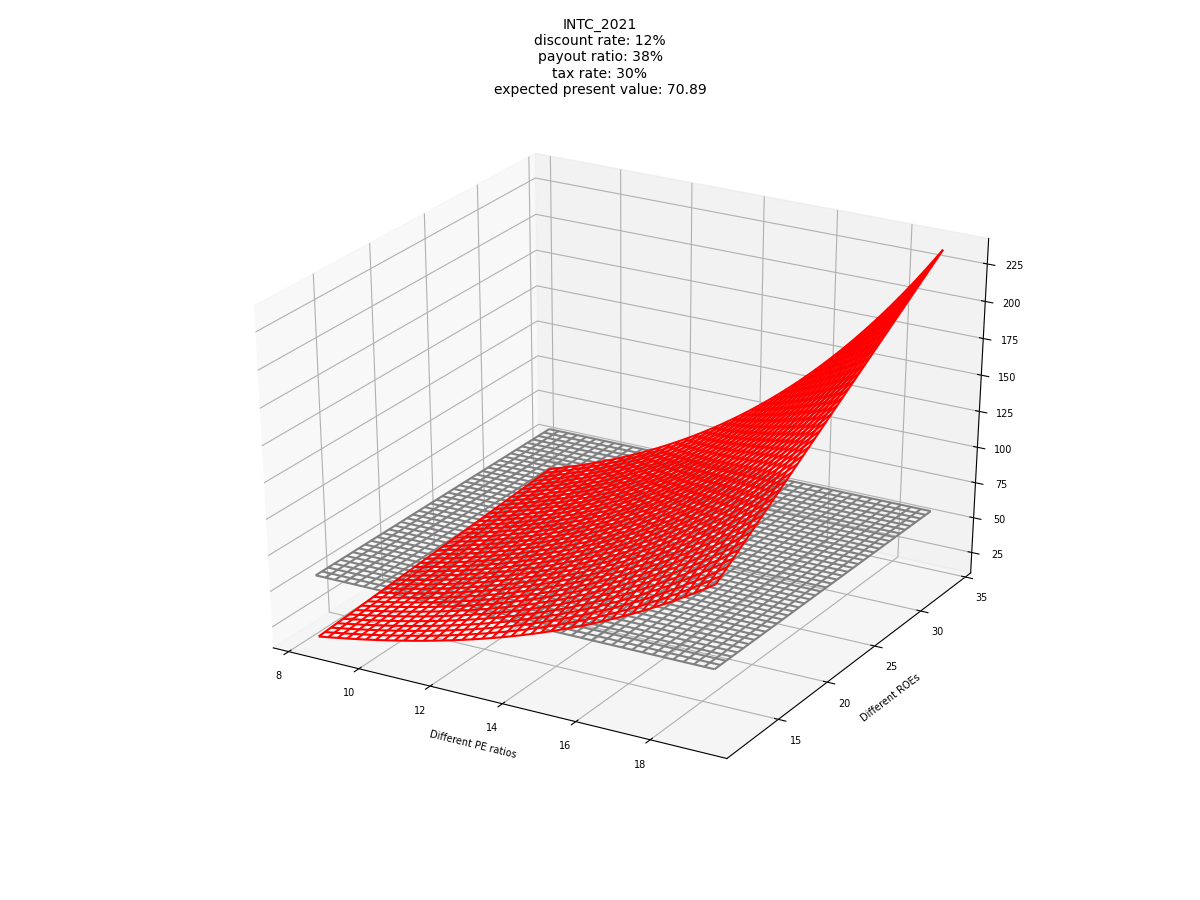
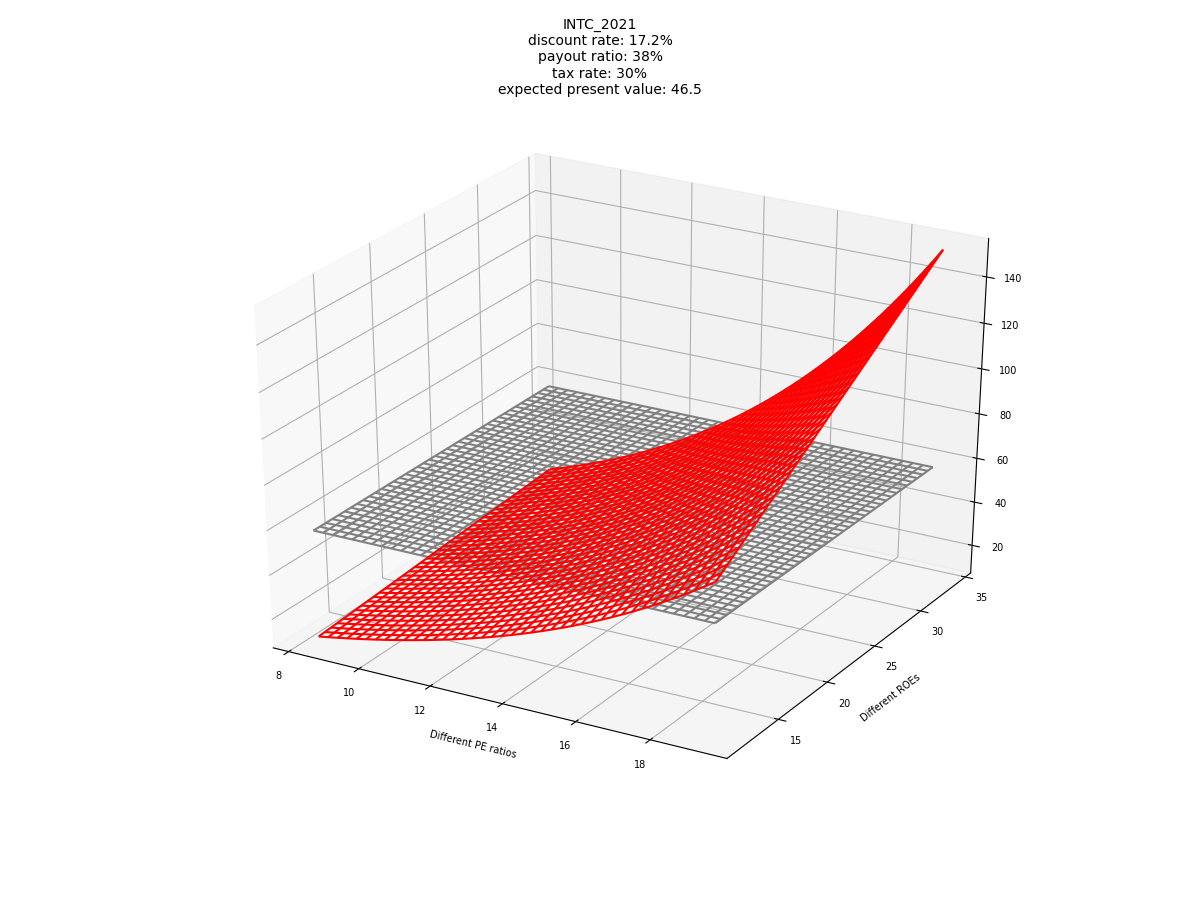
did analysis for intel

diff --git a/math_tools.py b/math_tools.py
@@ -112,7 +112,17 @@ def generate_2axis_norm_dist(xmean, xstd, ymean, ystd, resolution=20, width_of_b
     zvals = np.dot(zvals1,zvals2)
     return [xvals, yvals, zvals]
    
-
+def generate_discount_rate(risk_free_rate=0.01, num_years=10, success_rate = 0.33):
+    # generates a discount rate based on risk free rate, failure likelihood
+    # prob_success x [1 + r]^n >= [1 + rfr]^n
+    # [1 + r] >= [1 + rfr] / [prob_success ^ (1/n)]
+    # r >= [1 + rfr] / [prob_success ^ (1/n)] - 1
+    
+    numer = 1 + risk_free_rate
+    denom = success_rate ** (1/num_years)
+    
+    return (numer/denom) - 1
+    
 
 if __name__ == '__main__':
 #   fakedata = generator.generate()

diff --git a/stock_screener.py b/stock_screener.py
@@ -12,7 +12,7 @@ currentprice = 58
 estimated_roe = 23
 estimated_pe = 14
 estimated_payout_ratio = 38
-dcf_rate = 12
+dcf_rate = 17.2
 div_taxrate = 30
 years2project = 10
 sampletitle = 'INTC_2021'
